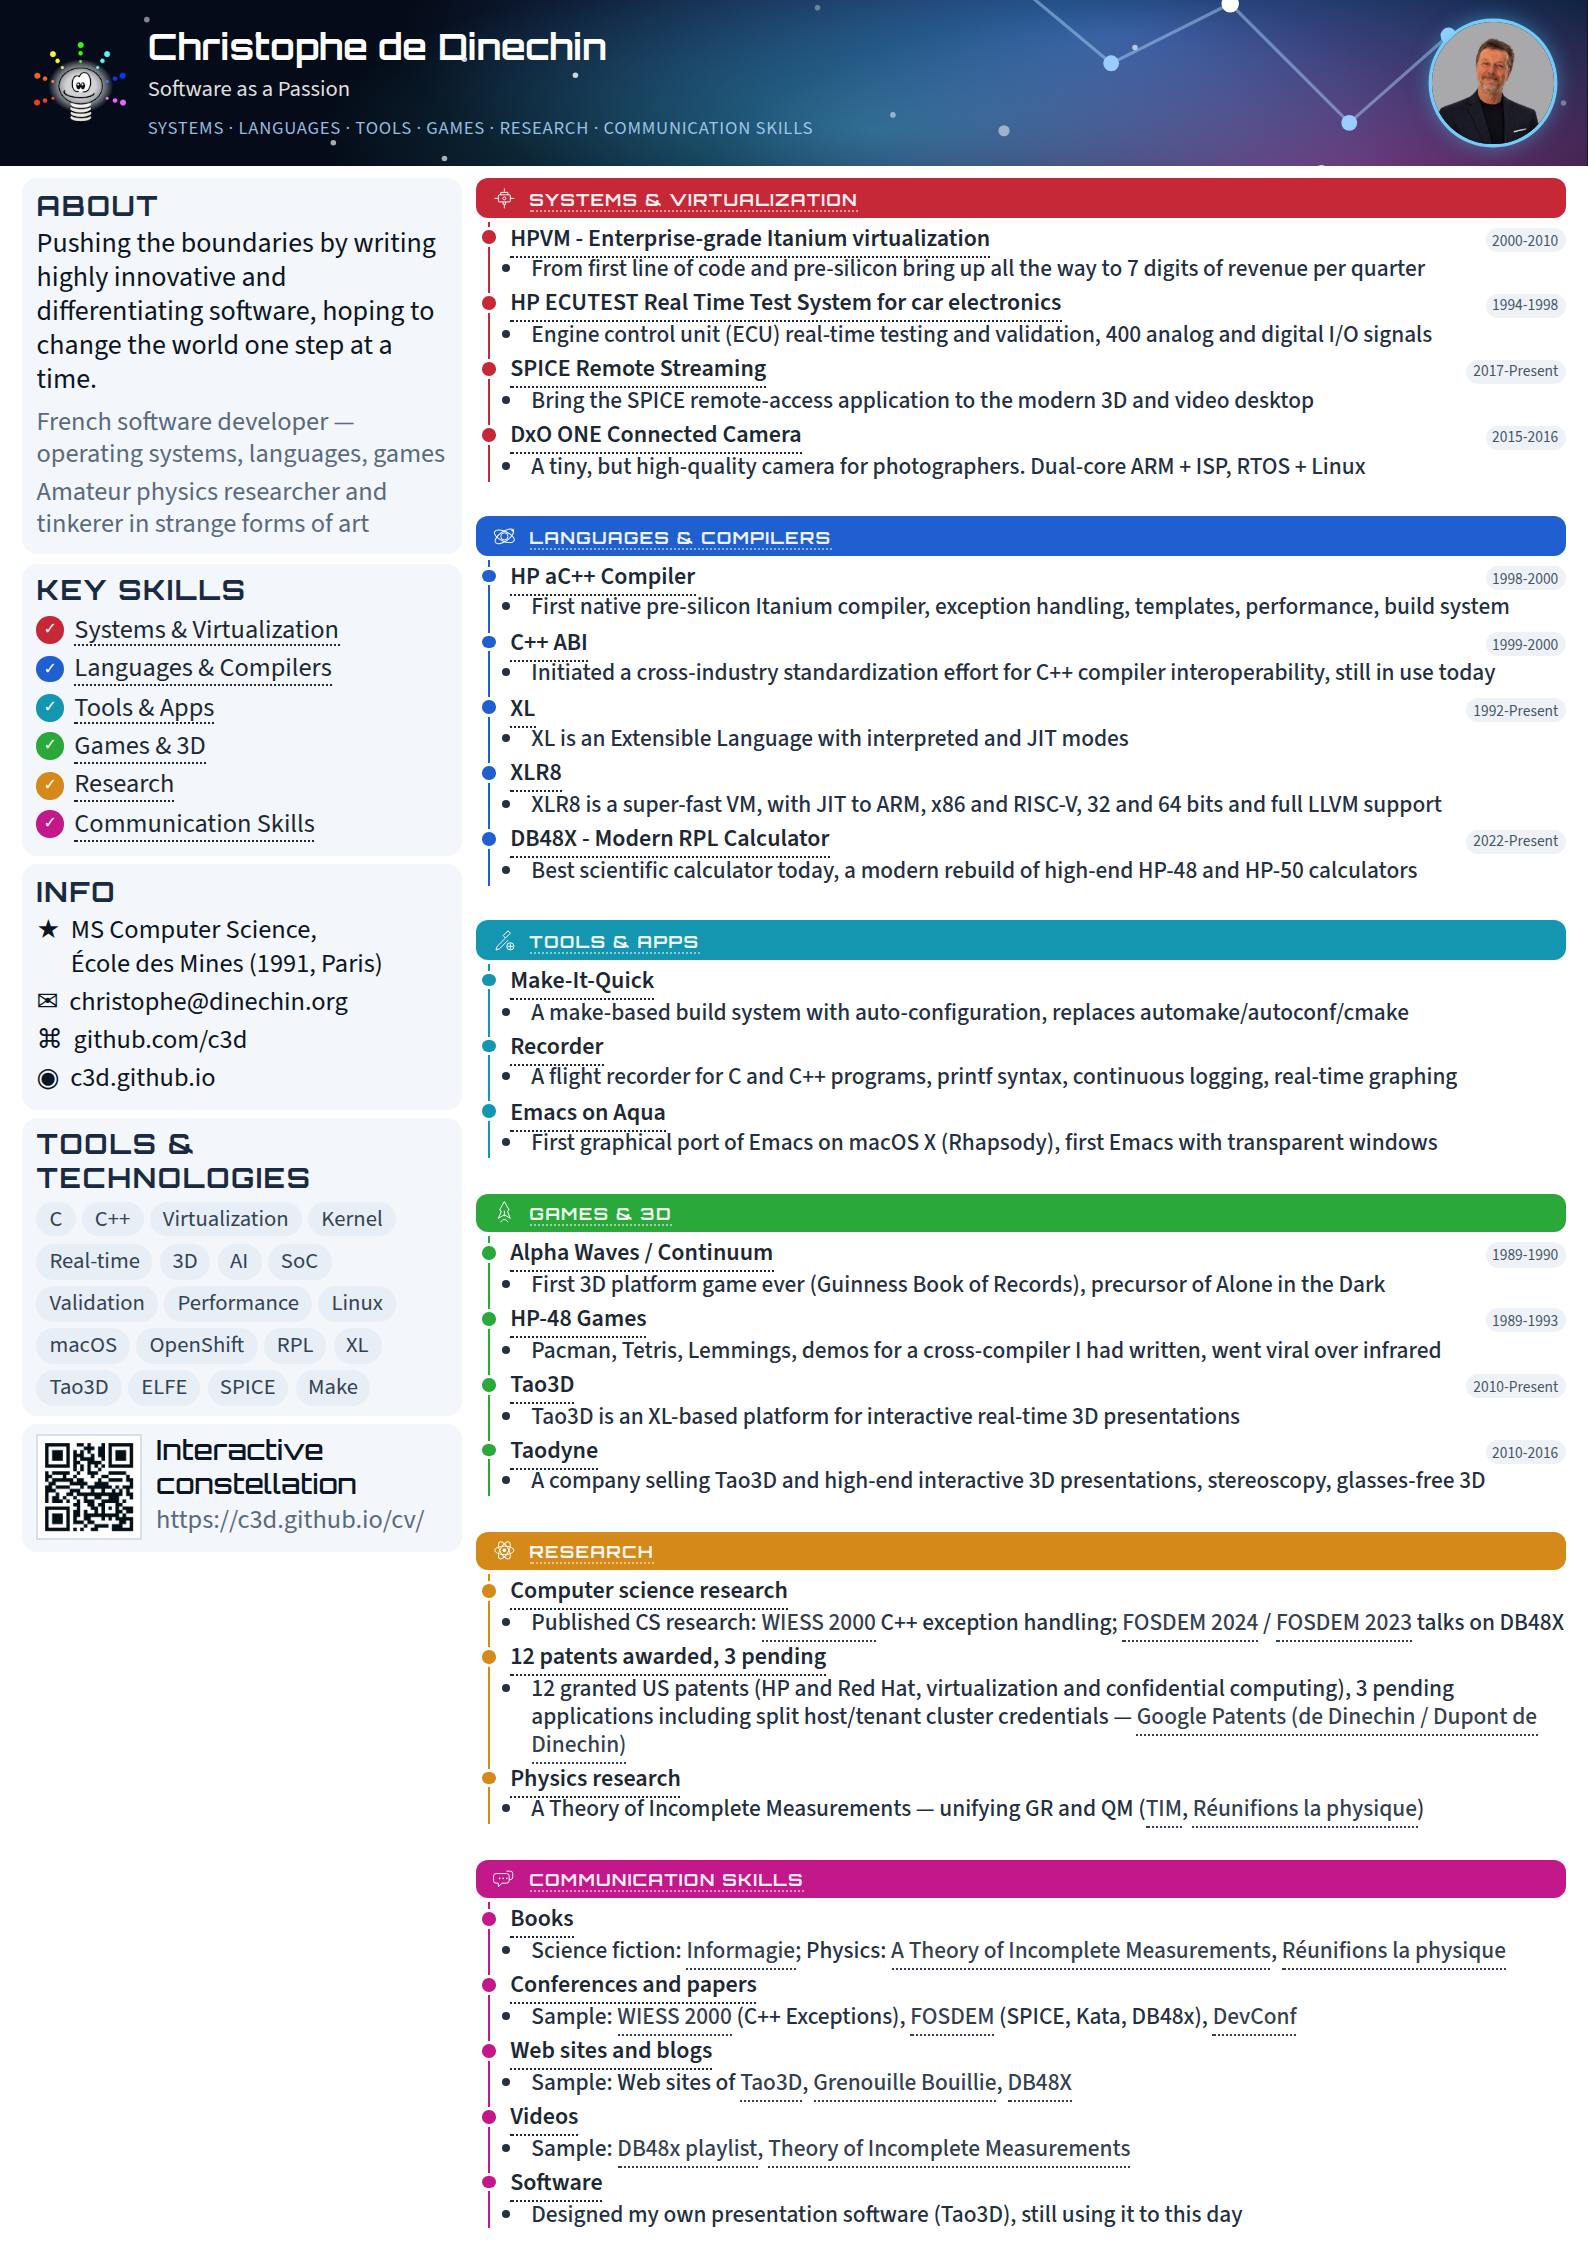
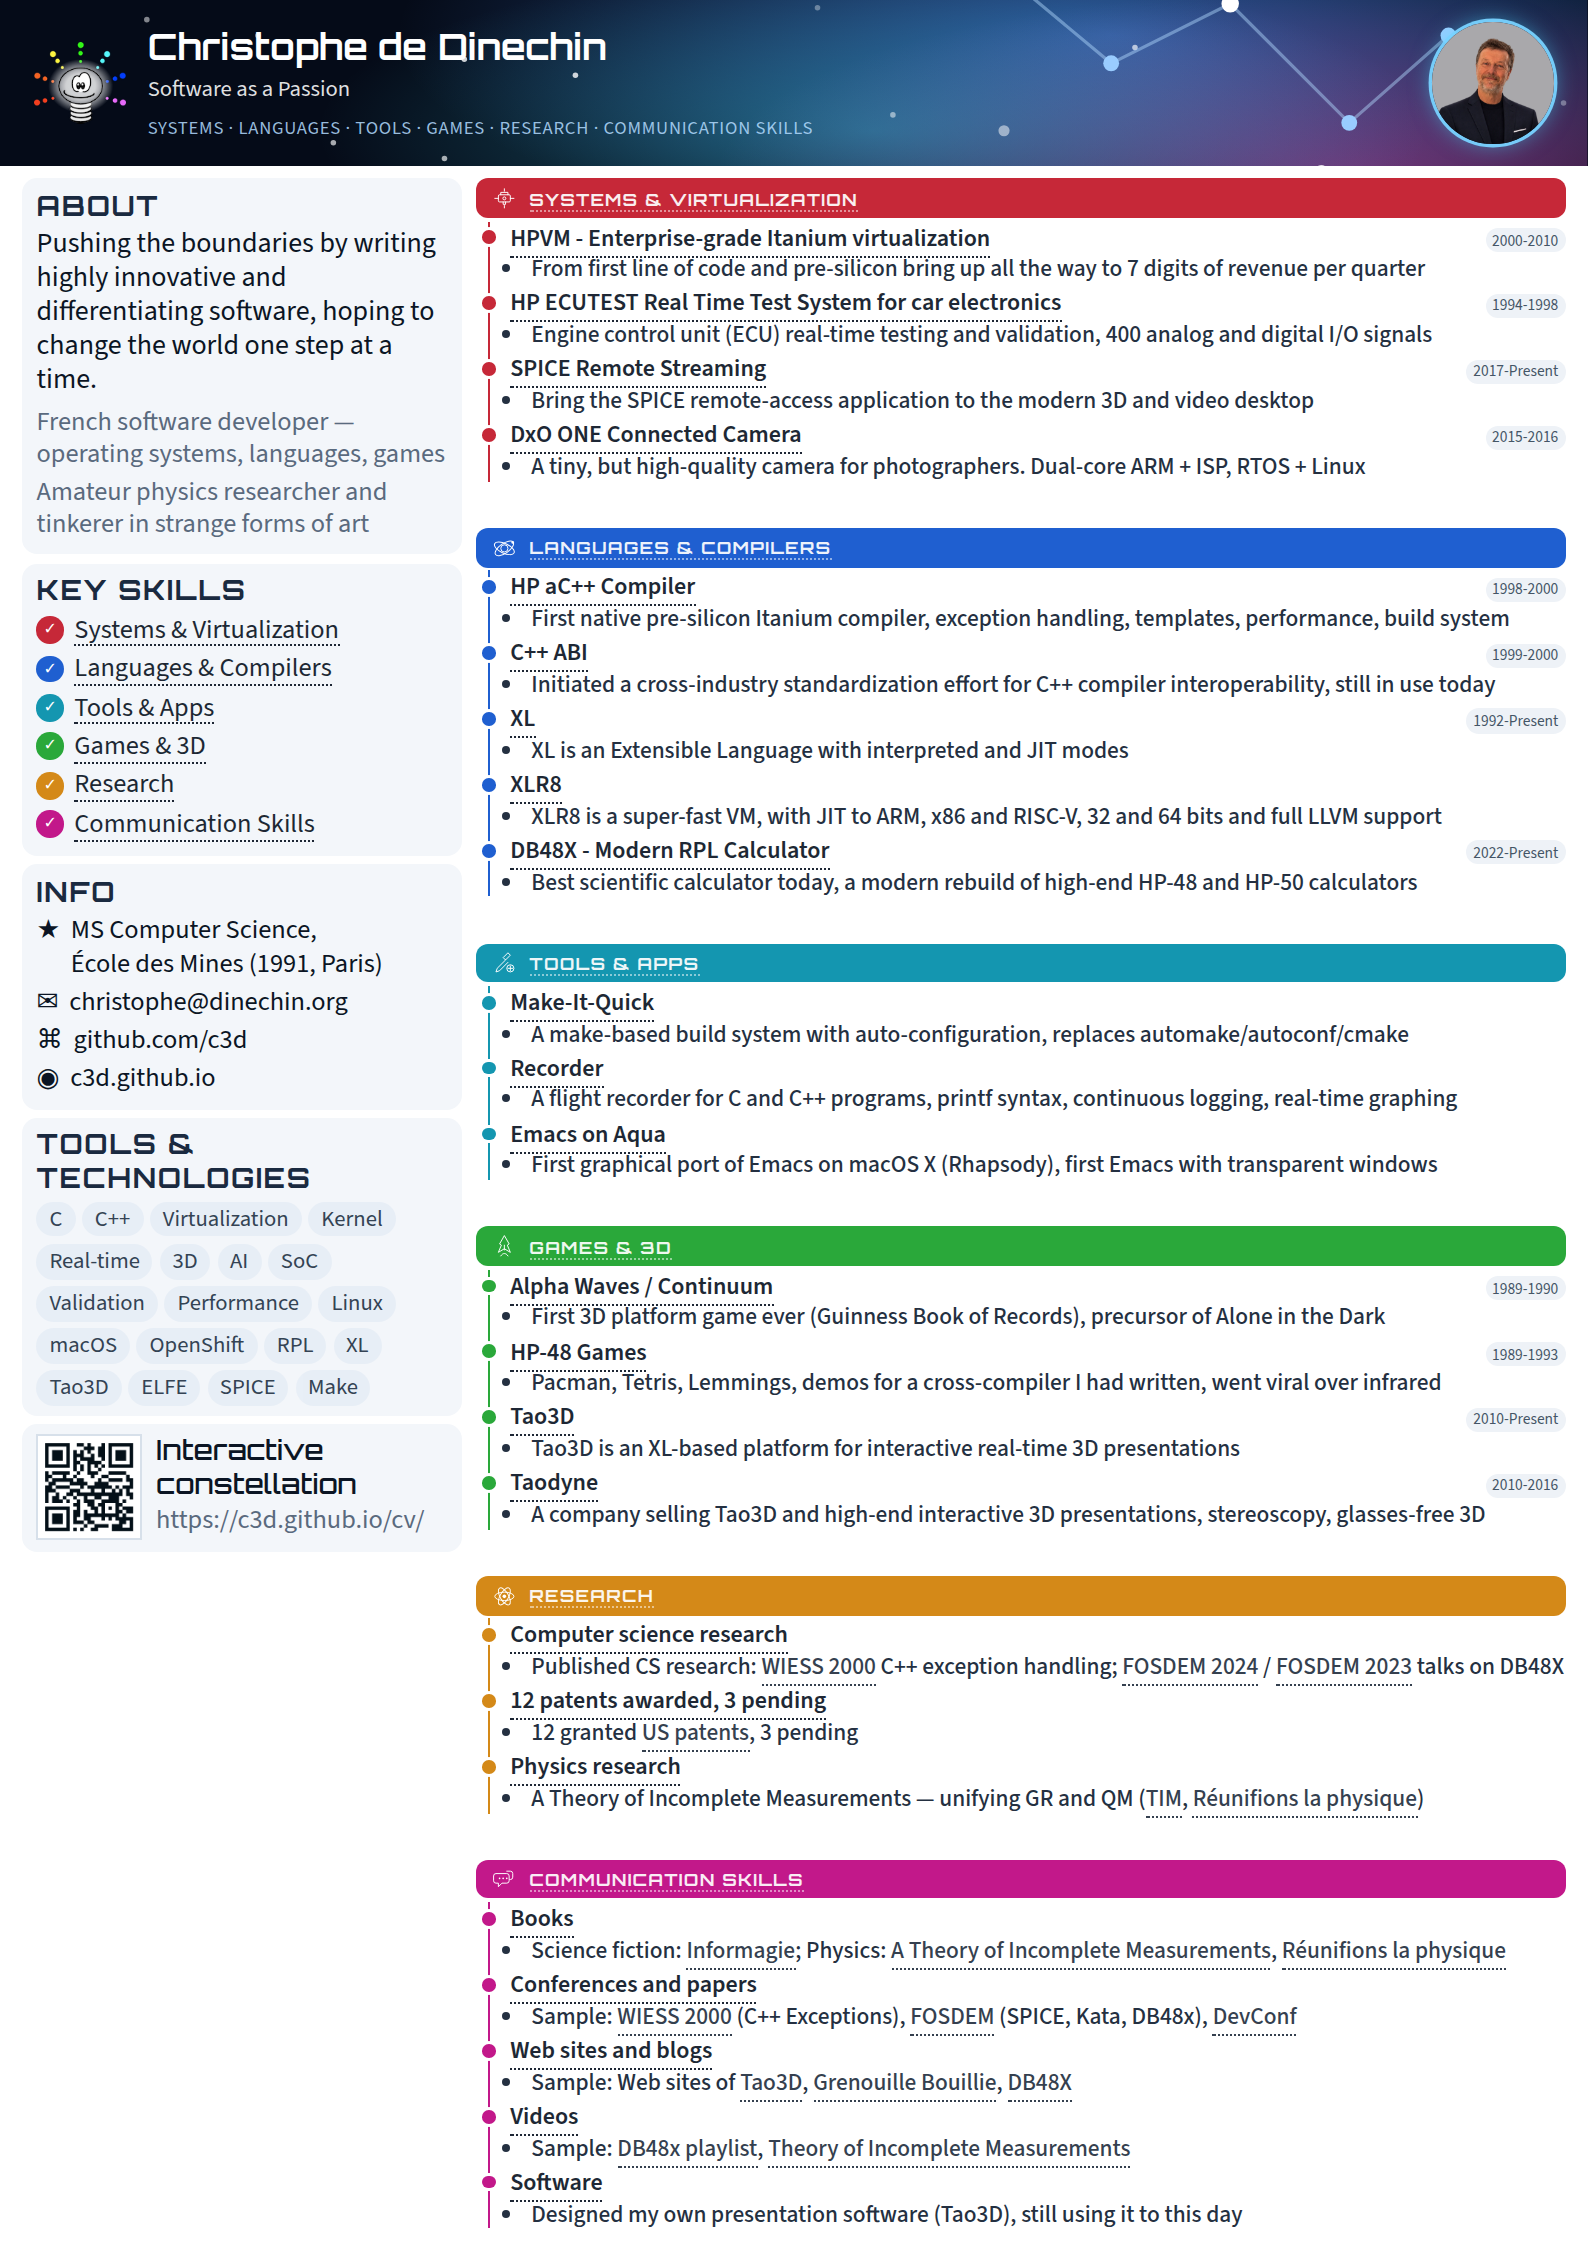
Shorten print patents bullet to linked “US patents”
Use exactly “12 granted US patents, 3 pending” with “US patents”
linking to PATENT_LIST_URL; drop the longer parenthetical copy.

Changed region(s): [[0.2777, 0.2182, 0.9874, 0.8103]]

diff --git a/cv-source/src/print/model.js b/cv-source/src/print/model.js
@@ -122,7 +122,7 @@ function researchPrintProjects() {
       title: `${PATENT_COUNT} patents awarded, ${PATENT_PENDING} pending`,
       years: '',
       bullets: [
-        `${PATENT_COUNT} granted US patents (HP and Red Hat, virtualization and confidential computing), ${PATENT_PENDING} pending applications including split host/tenant cluster credentials — ${deepLink(PATENT_LIST_URL, 'Google Patents (de Dinechin / Dupont de Dinechin)')}`
+        `${PATENT_COUNT} granted ${deepLink(PATENT_LIST_URL, 'US patents')}, ${PATENT_PENDING} pending`
       ]
     },
     {
